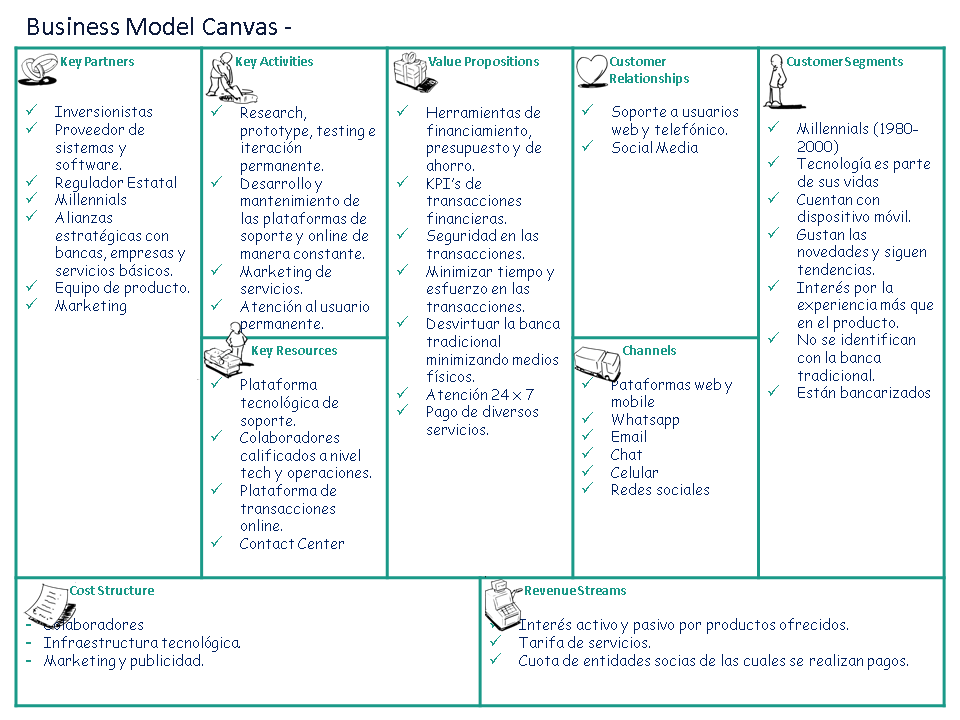
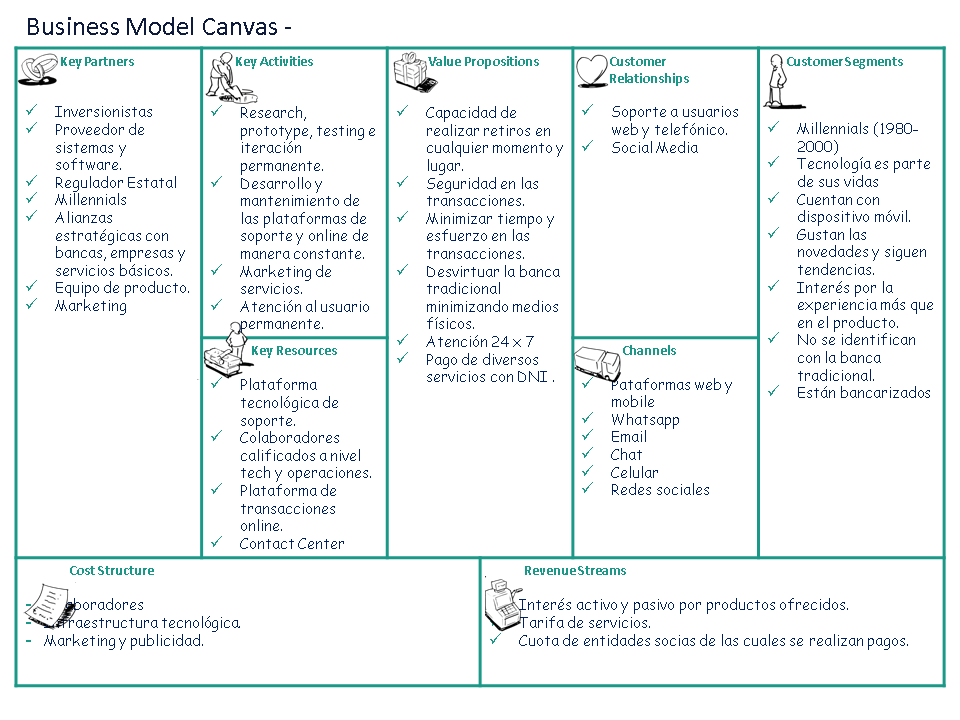
Add CANVAS

diff --git a/README.md b/README.md
@@ -257,6 +257,14 @@ Fuente: Google Play.
 - Se realizaron entrevistas a clientes bancarizados, estas se encuentran en : https://drive.google.com/file/d/1s9-xqBa2Cxdkrxifru_pWQ-Y4vvIF6QC/view?usp=sharing
 
 ##### **Resultados**
+- Principales operaciones bancarias: Depósitos, retiros y transferencias.
+
+
+
+- Los retiros de dinero son realizado en su mayoría al menos 2 veces por semana. 
+
+- Falta de seguridad en las apps al momento de acceder.
+
 
 #### **Encuestas online**
 
